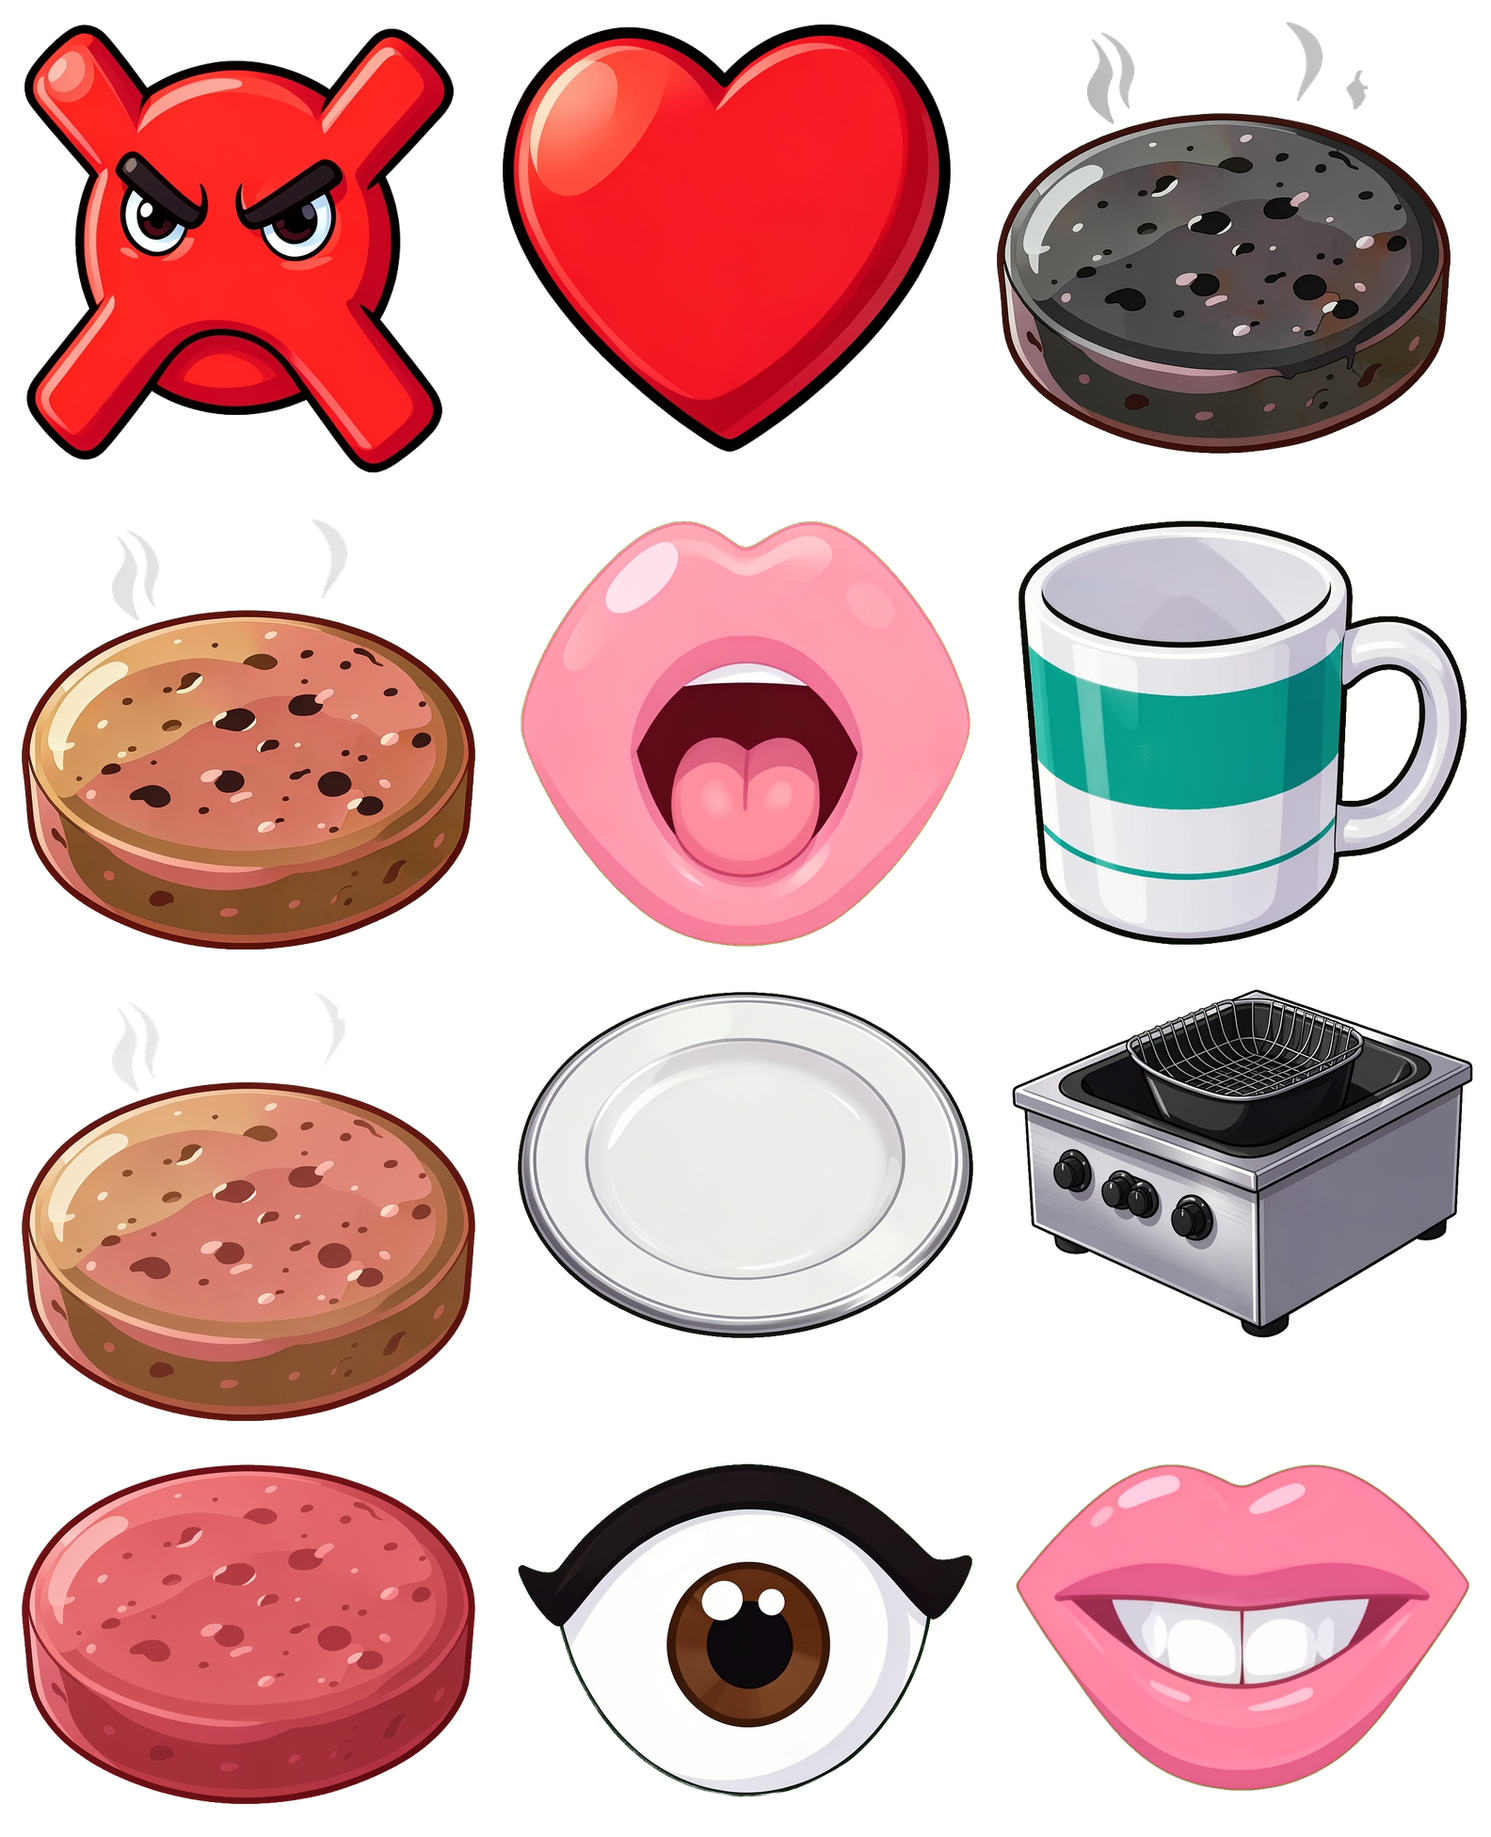
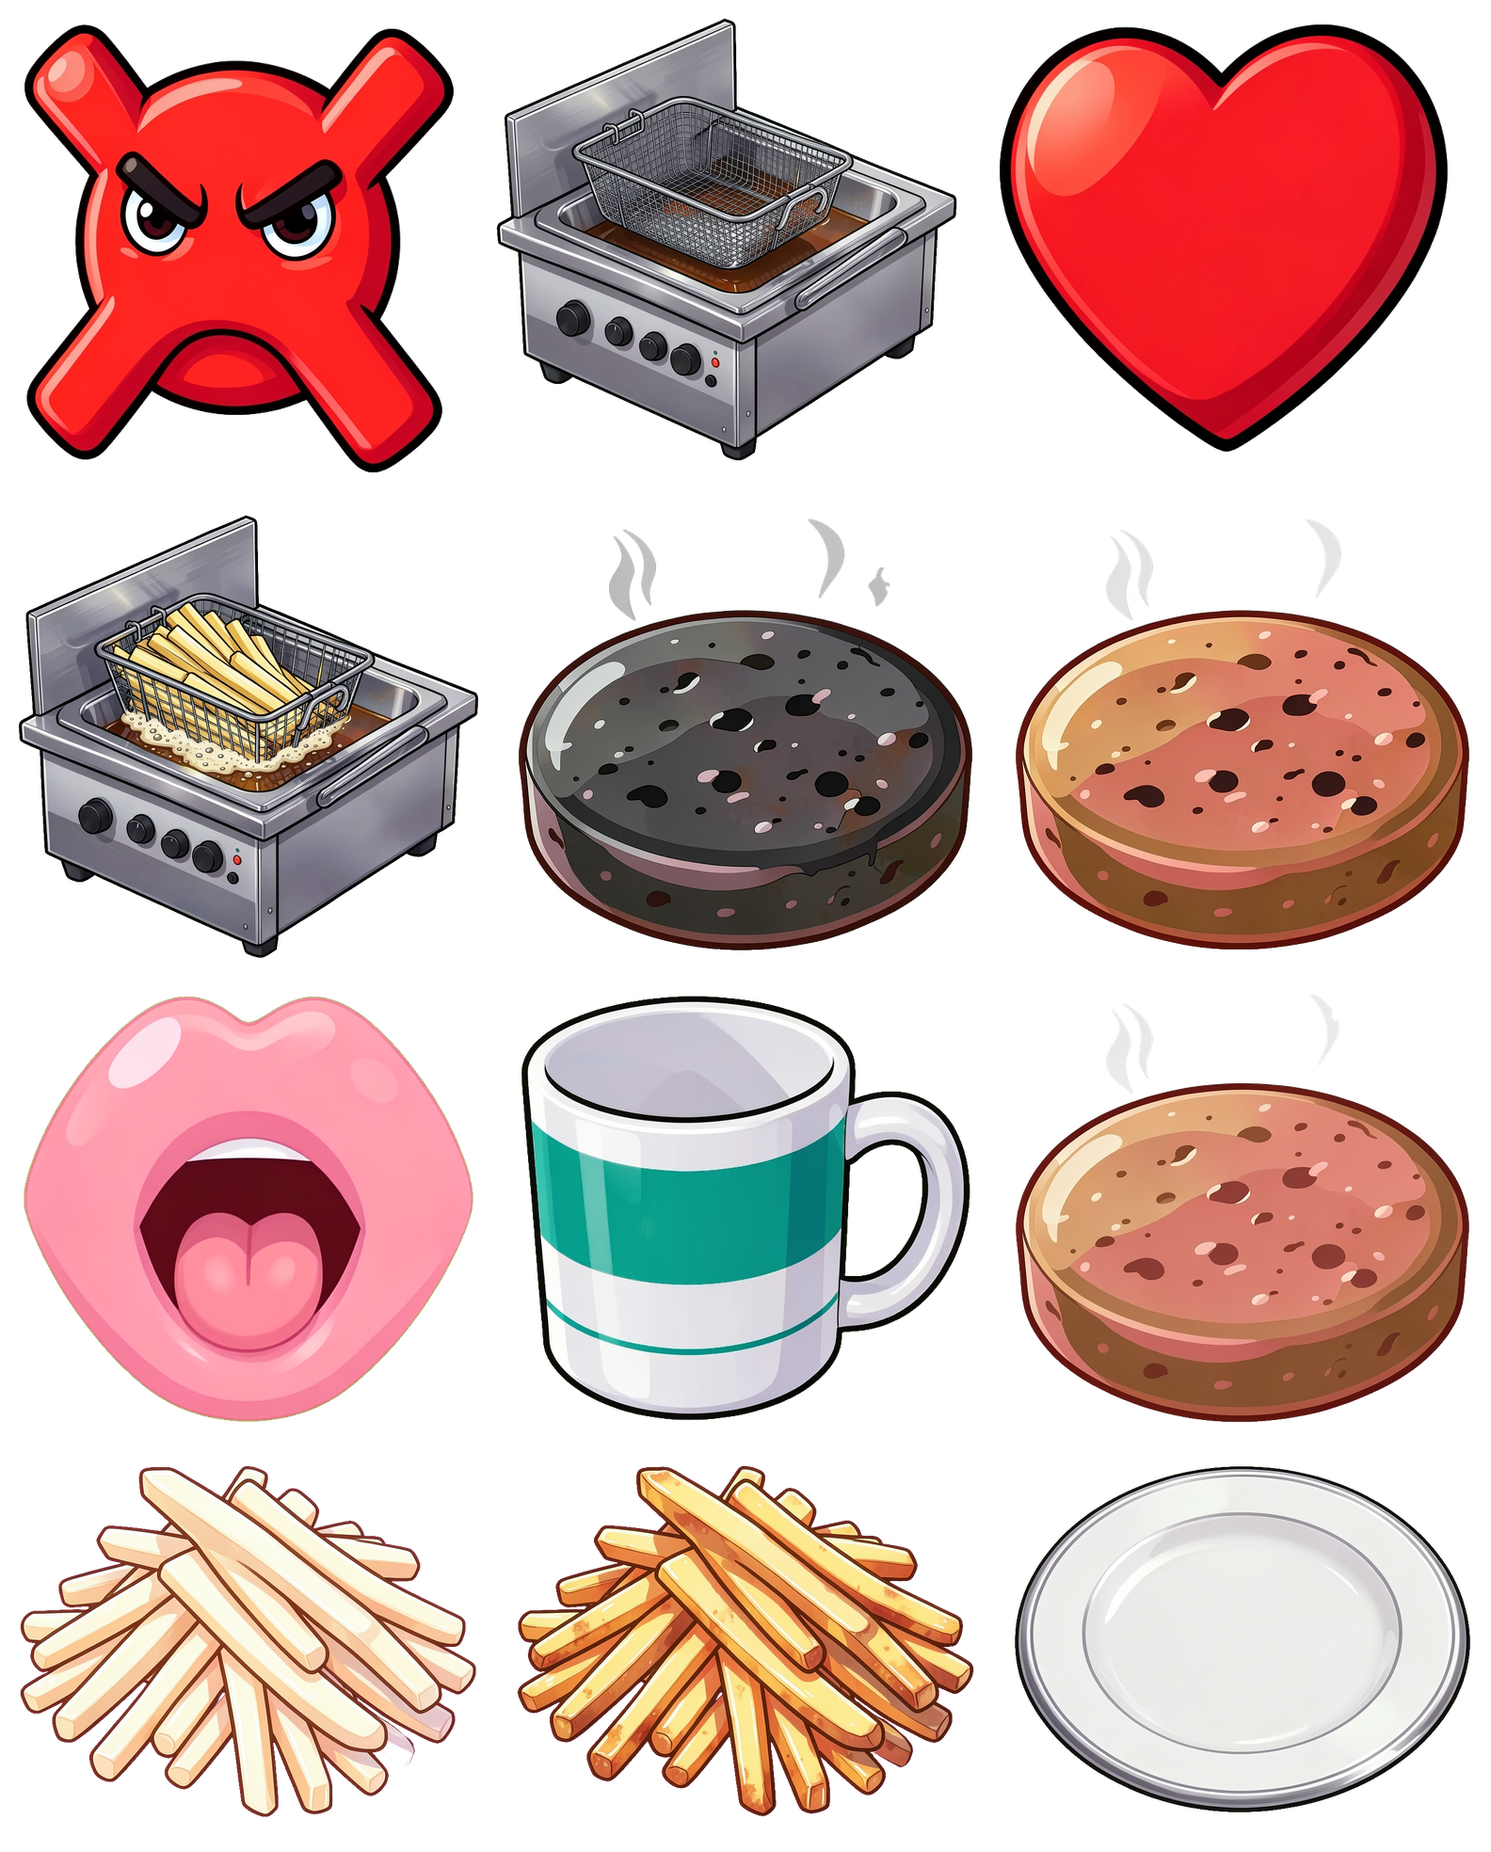
Fryer redesign: pile-into-carton flow, basket raised/lowered states
- Remove old fryer art; accept fry_station (raised/lowered),
  fries_pile (raw/cooked), fry_carton_empty; atlas rebuilt
- Fries tray pulls loose raw piles; fryer hides pile while inside
  (machine art depicts it), raised idle / lowered cooking
- Cooked pile servable only via empty carton on plate (composite
  fries_cooked); loose pile rejected by customers
- Invisible fryer pile still grabbable/tappable; failed put-back
  restores lowered basket

diff --git a/cook2.html b/cook2.html
@@ -139,7 +139,7 @@ body.ed-move #game canvas{cursor:move}body.ed-scale #game canvas{cursor:nwse-res
     <div class="sub">Diner · sprite edition</div>
     <div class="row"><div class="stat" id="menuLevel">Level 1</div><div class="stat" id="menuCoins">🪙 0</div></div>
     <div class="starsBig" id="menuStars"><span>★</span><span>★</span><span>★</span></div>
-    <div class="howto">🍔 Tap the patty tray, then a pan — or drag. Cooked patty → plate with a hamburger bun; cooked sausage → plate with a hot dog bun.<br>🥤 Tap the soda machine to pour. 🍟 Tap the fries tray, then the fryer.<br>🙂 Drag finished dishes to the customer who ordered them. 🪙 Tap tips to collect.</div>
+    <div class="howto">🍔 Tap the patty tray, then a pan — or drag. Cooked patty → plate with a hamburger bun; cooked sausage → plate with a hot dog bun.<br>🥤 Tap the soda machine to pour. 🍟 Tap the fries tray, then the fryer; cooked pile → carton on a plate.<br>🙂 Drag finished dishes to the customer who ordered them. 🪙 Tap tips to collect.</div>
     <div class="row"><button class="big" id="playBtn">Play</button><button class="ghost" id="resetBtn">Reset save</button></div>
   </div>
 </div>
@@ -269,7 +269,8 @@ const ASSETS={
   cheese:A+'art/cheese_slice/cheese_slice.png',fries_raw:A+'art/fries/fries_raw.png',fries_cooked:A+'art/fries/fries_cooked.png',plate:A+'art/plate/plate.png',
   cup_empty:A+'art/cup/cup_empty.png',cup_full:A+'art/cup/cup_full.png',
   mug_empty:A+'art/coffee_mug/coffee_mug_empty.png',mug_full:A+'art/coffee_mug/coffee_mug_full.png',
-  grill:A+'art/grill/grill.png',pan:A+'art/frying_pan/frying_pan.png',fryer:A+'art/fryer/fryer.png',soda_machine:A+'art/soda_machine/soda_machine.png',
+  grill:A+'art/grill/grill.png',pan:A+'art/frying_pan/frying_pan.png',fry_station_raised:A+'art/fry_station/fry_station_raised.png',fry_station_lowered:A+'art/fry_station/fry_station_lowered.png',soda_machine:A+'art/soda_machine/soda_machine.png',
+  fries_pile_raw:A+'art/fries_pile/fries_pile_raw.png',fries_pile_cooked:A+'art/fries_pile/fries_pile_cooked.png',carton_empty:A+'art/fry_carton_empty/fry_carton_empty.png',
   trash:A+'art/trash_bin/trash_bin.png',prep_tray:A+'art/prep_tray/prep_tray.png',napkins:A+'art/napkin_dispenser/napkin_dispenser.png',ketchup:A+'art/ketchup_bottle/ketchup_bottle.png',
   coin:A+'art/coin/coin.png',coin_stack:A+'art/coin_stack/coin_stack.png',bubble:A+'art/speech_bubble/speech_bubble.png',
   hud_coins:A+'art/hud_coins/hud_coins.png',hud_star_on:A+'art/hud_star/hud_star_on.png',hud_star_off:A+'art/hud_star/hud_star_off.png',
@@ -567,7 +568,7 @@ class Puppet{
 /* ======================================================================
    items, stations, plates, customers (shared by storybook + game)
    ====================================================================== */
-const ITEM_W={patty:88,sausage:120,bun_bottom:96,bun_top:96,bun_whole:100,hotdog_bun:96,cheese:160,fries:96,cup:75,mug:70,plate:128,burger:100,hotdog:120};
+const ITEM_W={patty:88,sausage:120,bun_bottom:96,bun_top:96,bun_whole:100,hotdog_bun:96,cheese:160,fries:96,carton_empty:90,cup:75,mug:70,plate:128,burger:100,hotdog:120};
 const PAN_FOOD_S=0.5909,PAN_FOOD_DX=-10,PAN_FOOD_DY=-4.5;   // food-in-pan pose, 52px patty slightly left of pan centre (posed 2026-09-05)
 const DISH={
   burger:{icon:'bun_whole',label:'Burger',base:22},
@@ -601,7 +602,7 @@ class Item{
     const k=this.kind,s=this.state;
     if(k==='patty'||k==='sausage')return k+'_'+s;
     if(k==='cup')return 'cup_'+s;if(k==='mug')return 'mug_'+s;
-    if(k==='fries')return s==='ready'?'fries_cooked':'fries_raw';
+    if(k==='fries')return s==='ready'?'fries_pile_cooked':'fries_pile_raw';
     return k;
   }
   refresh(){
@@ -618,6 +619,12 @@ class Item{
     // tight stack: bun_bottom @ (0.1, -1), patty @ (-0.4, 27.2), cheese w 100.5 @ (0, 22.5) overhanging with its
     // melt drip, bun_top @ (-0.3, 49.3) tucked onto the cheese; bun_whole/sausage keep their original values; hotdog_bun shares the bun_bottom pose
     // assembled hotdog (hotdog_bun + sausage): single composite sprite, posed below
+    // fries in carton: single composite sprite (cooked fries in carton); an empty carton renders alone via the loop below
+    if(st.length===2&&st.includes('carton_empty')&&st.includes('fries')){
+      const s=sprite('fries_cooked',{w:110,layer:this.layer});
+      s.position.set(0,10,0);s.userData.sub=1;s.userData.editName='Plate.stack[fries]';s.renderOrder=this.layer+1;this.g.add(s);this.parts.push(s);
+      return;
+    }
     if(st.length===2&&st.includes('hotdog_bun')&&st.includes('sausage')){
       const s=sprite('hotdog',{w:ITEM_W.hotdog,layer:this.layer});
       s.position.set(0,10,0);s.userData.sub=1;s.userData.editName='Plate.stack[hotdog]';s.renderOrder=this.layer+1;this.g.add(s);this.parts.push(s);
@@ -626,7 +633,7 @@ class Item{
     const Y={bun_bottom:-1,hotdog_bun:-1,bun_whole:8,patty:27.2,sausage:26,cheese:22.5,bun_top:49.3},X={bun_bottom:0.1,hotdog_bun:0.1,patty:-0.4,cheese:0,bun_top:-0.3},W={cheese:100.5};
     let i=1;
     for(const k of st){
-      const key=k==='patty'?'patty_cooked':k==='sausage'?'sausage_cooked':k;
+      const key=k==='patty'?'patty_cooked':k==='sausage'?'sausage_cooked':k==='fries'?'fries_cooked':k;
       const s=sprite(key,{w:W[k]||ITEM_W[k==='patty'?'patty':k==='sausage'?'sausage':k]||90,layer:this.layer});
       s.position.set(X[k]||0,Y[k]??8,0);s.userData.sub=i++;s.userData.editName='Plate.stack['+k+']';s.renderOrder=this.layer+i;this.g.add(s);this.parts.push(s);
     }
@@ -639,8 +646,7 @@ class Item{
   dish(){ // what finished dish this item represents (or null)
     if(this.kind==='cup'&&this.state==='full')return 'soda';
     if(this.kind==='mug'&&this.state==='full')return 'coffee';
-    if(this.kind==='fries'&&this.state==='ready')return 'fries';
-    if(this.kind==='plate'){const s=this.stack||[];if(s.includes('bun_top')&&s.includes('patty'))return 'burger';if(s.includes('hotdog_bun')&&s.includes('sausage'))return 'hotdog';}
+    if(this.kind==='plate'){const s=this.stack||[];if(s.includes('bun_top')&&s.includes('patty'))return 'burger';if(s.includes('hotdog_bun')&&s.includes('sausage'))return 'hotdog';if(s.includes('carton_empty')&&s.includes('fries'))return 'fries';}
     return null;
   }
   dispose(){removeI(this.i);removeObj(this.g);}
@@ -713,18 +719,18 @@ class Tray extends Station{
     if(!tray)this.spr.material.opacity=0;   // invisible but still tappable
     this.decor=[];
     for(let i=0;i<count;i++){
-      const key=kind==='patty'?'patty_raw':kind==='sausage'?'sausage_raw':kind==='bun'?'bun_whole':kind==='hotdog_bun'?'hotdog_bun':kind==='fries'?'fries_raw':'cheese';
+      const key=kind==='patty'?'patty_raw':kind==='sausage'?'sausage_raw':kind==='bun'?'bun_whole':kind==='hotdog_bun'?'hotdog_bun':kind==='fries'?'fries_pile_raw':kind==='carton'?'carton_empty':'cheese';
       const s=sprite(key,{w:(ITEM_W[kind]||90)*.85,layer:L.STATION+1,x:x+(i-(count-1)/2)*26,y:y+12+i*3});s.renderOrder=L.STATION+1+i;s.userData.editName='Tray('+kind+').decor['+i+']';scene.add(s);this.decor.push(s);
     }
     this.i.priority=1.2;
   }
-  spawn(){if(this.kind==='bun'){const it=new Item('bun_bottom','whole',this.x,this.y+14);it.home=this;return it;}if(this.kind==='hotdog_bun'){const it=new Item('hotdog_bun','empty',this.x,this.y+14);it.home=this;return it;}const it=new Item(this.kind,'raw',this.x,this.y+14);it.home=this;return it;}
+  spawn(){if(this.kind==='bun'){const it=new Item('bun_bottom','whole',this.x,this.y+14);it.home=this;return it;}if(this.kind==='hotdog_bun'){const it=new Item('hotdog_bun','empty',this.x,this.y+14);it.home=this;return it;}if(this.kind==='carton'){const it=new Item('carton_empty','empty',this.x,this.y+14);it.home=this;return it;}const it=new Item(this.kind,'raw',this.x,this.y+14);it.home=this;return it;}
   onTap(){const it=this.spawn();select(it);return true;}
   dragOut(){return this.spawn();}
   dispose(){super.dispose();this.decor.forEach(removeObj);}
 }
 
-/** Plate rack: N plates. hamburger bun → patty → burger (auto top bun); hot-dog bun → sausage → hotdog. Buns reject the wrong filling. */
+/** Plate rack: N plates. hamburger bun → patty → burger (auto top bun); hot-dog bun → sausage → hotdog; empty carton → cooked fry pile → fries in carton. Buns/cartons reject the wrong filling. */
 class PlateRack{
   constructor(slots){
     this.slots=slots.map(([x,y])=>{const s={x,y,item:null};s.item=new Item('plate','empty',x,y);s.item.stack=[];s.item.refresh();s.item.rack=this;s.item.slot=s;s.item.i.priority=1.1;return s;});
@@ -732,9 +738,10 @@ class PlateRack{
   }
   accepts(item,slot){
     const st=slot.item?slot.item.stack:null;if(!st)return false;
-    if(item.kind==='bun_bottom'||item.kind==='hotdog_bun')return st.length===0;
+    if(item.kind==='bun_bottom'||item.kind==='hotdog_bun'||item.kind==='carton_empty')return st.length===0;
     if(item.kind==='patty')return item.state==='cooked'&&st.length===1&&st[0]==='bun_bottom';
     if(item.kind==='sausage')return item.state==='cooked'&&st.length===1&&st[0]==='hotdog_bun';
+    if(item.kind==='fries')return item.state==='ready'&&st.length===1&&st[0]==='carton_empty';
     if(item.kind==='cheese')return st.includes('bun_top')&&st.includes('patty')&&!st.includes('cheese');
     return false;
   }
@@ -765,14 +772,15 @@ class SodaMachine extends Station{
   update(dt){if(this.cup&&this.cup.state==='empty'){this.t+=dt;this.bar.visible=true;this.bar.set(this.t/this.fillT,0x60a5fa);if(this.t>=this.fillT){this.cup.set('full');this.bar.visible=false;SFX.ding();}}}
   dispose(){super.dispose();removeObj(this.bar);this.cup&&this.cup.dispose();}
 }
-/** Fryer: raw fries in → golden carton out (no burn). Tap the fries tray then the fryer, or tap the fryer directly. */
+/** Fryer: raw pile in (basket lowers) → cooked pile out (basket raises); pile must be cartoned before serving (no burn). Tap the fries tray then the fryer, or tap the fryer directly. */
 class Fryer extends Station{
-  constructor(x,y){super('fryer',x,y,240,{ay:0});this.item=null;this.t=0;this.cookT=4;this.itemPos={x,y:y+130};this.bar=makeBar(80);this.bar.position.set(x,y+200,0);scene.add(this.bar);}
+  constructor(x,y){super('fry_station_raised',x,y,240,{ay:0});this.item=null;this.t=0;this.cookT=4;this.itemPos={x,y:y+130};this.bar=makeBar(80);this.bar.position.set(x,y+200,0);scene.add(this.bar);}
   poseState(st){if(this.item){this.item.dispose();this.item=null;this.bar.visible=false;}if(!st||st==='none')return;this.onTap();if(st==='ready'){this.t=this.cookT;this.update(0);}else{this.t=this.cookT*.5;this.update(0);}}
   accepts(item){return !this.item&&item.kind==='fries'&&item.state==='raw';}
-  drop(item){if(!this.accepts(item))return false;this.item=item;item.station=this;item.home=null;item.g.position.set(this.itemPos.x,this.itemPos.y,0);item.set('cooking');this.t=0;SFX.sizzle();return true;}
-  onTap(){if(selected&&this.accepts(selected))return tryDrop(selected,this,null);if(this.item||selected)return false;const it=new Item('fries','raw',this.itemPos.x,this.itemPos.y);return this.drop(it);}
-  take(item){if(item===this.item){this.item=null;this.bar.visible=false;}item.station=null;}
+  drop(item){if(!this.accepts(item))return false;this.item=item;item.station=this;item.home=null;item.g.position.set(this.itemPos.x,this.itemPos.y,0);item.set('cooking');item.g.visible=false;   // pile hides: the lowered asset already depicts the basket down
+this.t=0;setTex(this.spr,'fry_station_lowered');SFX.sizzle();return true;}
+  onTap(){if(selected&&this.accepts(selected))return tryDrop(selected,this,null);if(this.item&&this.item.state==='ready'&&!selected){select(this.item);return true;}if(this.item||selected)return false;const it=new Item('fries','raw',this.itemPos.x,this.itemPos.y);return this.drop(it);}
+  take(item){if(item===this.item){this.item=null;this.bar.visible=false;}item.station=null;item.g.visible=true;if(!this.item)setTex(this.spr,'fry_station_raised');}
   update(dt){if(this.item&&this.item.state==='cooking'){this.t+=dt;this.bar.visible=true;this.bar.set(this.t/this.cookT,0xffb703);if(this.t>=this.cookT){this.item.set('ready');this.bar.visible=false;SFX.ding();}}}
   dispose(){super.dispose();removeObj(this.bar);this.item&&this.item.dispose();}
 }
@@ -889,7 +897,7 @@ function select(it){
 function deselect(){
   const it=selected;if(!it)return;selected=null;it.g.scale.setScalar(1);
   if(it.home){it.dispose();return;}            // fresh from a tray: just vanish
-  it.setLayer(L.ITEM);reattach(it);it.refresh();const o=itOrigin(it);it.g.position.set(o.x,o.y,0);
+  it.setLayer(L.ITEM);reattach(it);it.refresh();it.g.visible=!(it.station instanceof Fryer);if(it.station instanceof Fryer)setTex(it.station.spr,'fry_station_lowered');const o=itOrigin(it);it.g.position.set(o.x,o.y,0);
 }
 function tryDrop(it,target,slot){
   const ok=target.customer?target.accepts(it):target.accepts(it,slot);
@@ -937,6 +945,7 @@ function onMove(e){
       const h=pDown.hit;let it=null;
       if(selected){it=selected;selected=null;}
       else if(h&&h.owner instanceof Item&&h.drag&&canPick(h.owner)){it=h.owner;detachItem(it);it.refresh();it.g.position.set(p.x,p.y,0);}   // pop to full size and snap to the pointer so ox/oy start at 0 and it adheres during the drag (like tray spawns)
+      else if(h&&h.owner instanceof Fryer&&h.owner.item&&canPick(h.owner.item)){it=h.owner.item;detachItem(it);it.refresh();it.g.position.set(p.x,p.y,0);}   // fryer pile is invisible in the machine: grab it off the station and it appears in hand
       else if(h&&h.owner instanceof Tray){it=h.owner.dragOut();detachItem(it);if(it)it.g.position.set(p.x,p.y,0);}   // spawner: item pops into existence at the tray, not the cursor — snap it to the pointer so ox/oy start at 0 and it adheres during the drag
       if(it){drag={it,ox:it.g.position.x-p.x,oy:it.g.position.y-p.y,origin:{x:it.g.position.x,y:it.g.position.y}};it.setLayer(L.DRAG);it.g.scale.setScalar(1.15);SFX.pop();}
     }
@@ -953,7 +962,7 @@ function onUp(e){
     const t=findTarget(p.x,p.y,it);
     if(!(t&&tryDrop(it,t.owner,t.slot))){ // no valid target: go home
       if(it.home)it.dispose();
-      else{it.setLayer(L.ITEM);reattach(it);it.refresh();const o=itOrigin(it);it.g.position.set(o.x,o.y,0);}
+      else{it.setLayer(L.ITEM);reattach(it);it.refresh();it.g.visible=!(it.station instanceof Fryer);if(it.station instanceof Fryer)setTex(it.station.spr,'fry_station_lowered');const o=itOrigin(it);it.g.position.set(o.x,o.y,0);}
     }
   }
   else if(!pDown.moved){tap(pDown.hit,p);}
@@ -1045,6 +1054,7 @@ function buildKitchen(cfg={grillSlots:3}){
   new Tray('sausage',545,-450,{count:2,w:170});
   new Tray('cheese',-20,-350,{count:3,w:180});
   new Tray('fries',715,-450,{count:2,w:140});
+  new Tray('carton',-540,-340,{count:3,w:140,tray:false});
   new Fryer(660,-265);
   new Trash(-640,-470);
 }
@@ -1172,9 +1182,9 @@ page('Composites','Dishes assembled from individual sprites on a plate: hamburge
   const order=['bun_bottom','patty','cheese','bun_top'];let i=0;
   ctl(body,[['Add next ingredient',()=>{if(i<order.length){p.stack.push(order[i++]);p.refresh();SFX.place();}}],['Reset',()=>{p.stack=[];i=0;p.refresh();}]]);
 });
-page('Stations','Interactive: tap the patty tray then a pan (or drag). Patties cook, then burn. Tap buns then a plate; cooked patty onto the bun → burger. Tap a finished burger with a cheese slice for a cheeseburger. Tap the fries tray then the fryer (or tap the fryer directly). Tap soda machine. Trash anything.',body=>{
+page('Stations','Interactive: tap the patty tray then a pan (or drag). Patties cook, then burn. Tap buns then a plate; cooked patty onto the bun → burger. Tap a finished burger with a cheese slice for a cheeseburger. Tap the fries tray then the fryer (or tap the fryer directly); the cooked pile must go into an empty carton on a plate before serving. Tap soda machine. Trash anything.',body=>{
   buildKitchen({grillSlots:3});
-  label(-470,160,'soda machine',15);label(-90,-165,'plates',15);label(-190,-320,'hamburger buns',15);label(-370,-320,'hot dog buns',15);label(380,-15,'grill (3 pans)',15);label(360,-420,'raw patties',15);label(545,-425,'sausages',15);label(-20,-270,'cheese',15);label(715,-370,'raw fries',15);label(660,-40,'fryer',15);label(-560,-245,'trash',15);
+  label(-470,160,'soda machine',15);label(-90,-165,'plates',15);label(-190,-320,'hamburger buns',15);label(-370,-320,'hot dog buns',15);label(380,-15,'grill (3 pans)',15);label(360,-420,'raw patties',15);label(545,-425,'sausages',15);label(-20,-270,'cheese',15);label(715,-370,'raw fry piles',15);label(660,-40,'fryer',15);label(-540,-320,'empty cartons',15);label(-560,-245,'trash',15);
   ctl(body,[['Cook speed ×3',b=>{for(const s of stations)if(s instanceof Grill){s.cookT=s.cookT>2?1.3:4;s.burnT=s.burnT>2?1.7:5;b.classList.toggle('on');}}],['Spawn cooked patty',()=>{const it=new Item('patty','cooked',0,-400);}],['Spawn burnt patty',()=>{new Item('patty','burnt',80,-400);}]]);
 });
 page('Customers rig','Paper-puppet customers: ear/eye/brow mirrored across the vertical axis, plus nose, mouth, head and body. Pose tweens FRONT ↔ SIDE for a parallax turn; expressions swap mouth sprites and offset brows; eyes blink and gaze.',body=>{
